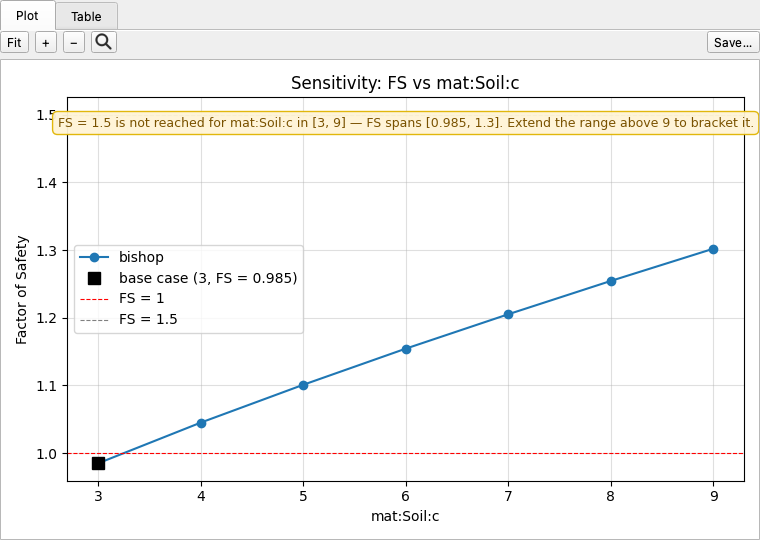
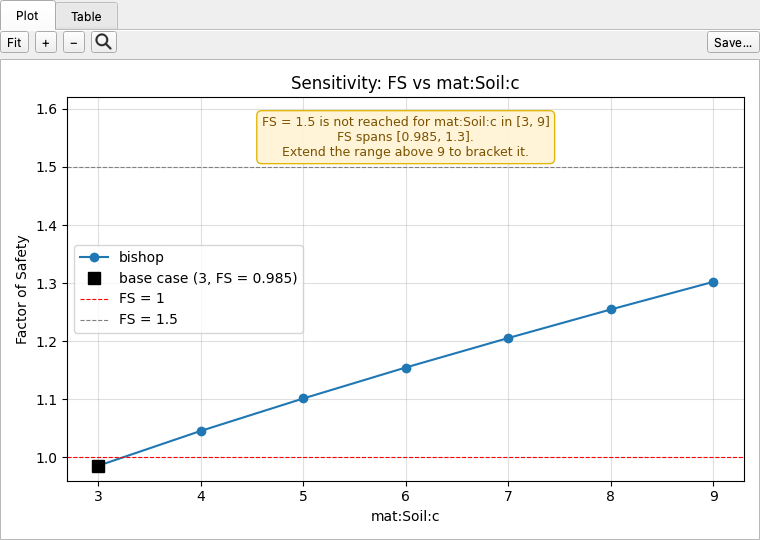
plots: a back-analysis lists FS = 1 once in its legend; a design sweep that misses its target puts its note beside the target line, wrapped to fit the plot (owner, 2026-10-12, ruling 191)
The FS = 1 guide and a target of FS = 1 were drawn as two lines with the same
label (plot_sensitivity and plot_spider). The miss note sat on the target line
and, wrapped to the figure rather than the axes, ran past the plot edges; it
now goes one clause per line on the far side of the target line, in y headroom
measured from the drawn box. Recaptured the two Parametric screenshots.

Claude-Session: https://claude.ai/code/session_01XjjT2aBxw8gY7EFdpoUcpj

diff --git a/xslope/plot.py b/xslope/plot.py
@@ -4883,7 +4883,9 @@ def plot_sensitivity(df, target_fs=None, figsize=(8, 5), save_png=False,
                           f"{output} = {base['fs'].iloc[0]:.3g})")
     if is_fs:                                    # FS = 1 guide only for a safety factor
         ax.axhline(1.0, color='r', linestyle='--', linewidth=0.8, label='FS = 1')
-    if target_fs is not None:
+    # A target of FS = 1 (a back-analysis) is the guide just drawn; a second line
+    # would only repeat it in the legend.
+    if target_fs is not None and not (is_fs and np.isclose(target_fs, 1.0)):
         ax.axhline(target_fs, color='gray', linestyle='--', linewidth=0.8,
                    label=f'{output} = {target_fs:g}')
     ax.set_xlabel(param)
@@ -4928,17 +4930,68 @@ def annotate_design_crossing(ax, target_fs, summary):
                     bbox=dict(boxstyle="round,pad=0.3", fc="white",
                               ec="#0a7d2c", alpha=0.9))
     else:
-        # Put the note in the empty band: just under the target line when the
-        # curve sits below the target (need a higher FS), else near the bottom.
+        # The note goes on the far side of the target line from the curve, in
+        # headroom the y-axis is extended to hold, so it covers neither the curve
+        # nor the line it is about. One clause per line, re-wrapped if still wider
+        # than the axes, keeps it inside the plot at any window width.
         fs_min = (summary.get("fs_range") or (None, None))[0]
         below_range = fs_min is not None and target_fs < fs_min
-        y, va = (0.05, "bottom") if below_range else (0.95, "top")
-        ax.text(0.5, y, summary.get("message", "Target FS not reached."),
-                transform=ax.transAxes, ha="center", va=va, fontsize=9,
-                color="#7a5200", wrap=True, zorder=9,
-                bbox=dict(boxstyle="round,pad=0.4", fc="#fff4d6",
-                          ec="#e0b400", alpha=0.95))
+        text = (summary.get("message", f"Target {out} not reached.")
+                .replace(" — ", "\n").replace(". ", ".\n"))
+        gap = 6                                  # points between line and note
+        note = ax.annotate(text, xy=(0.5, target_fs),
+                           xycoords=ax.get_yaxis_transform(),
+                           xytext=(0, -gap if below_range else gap),
+                           textcoords="offset points", ha="center",
+                           va="top" if below_range else "bottom", fontsize=9,
+                           color="#7a5200", zorder=9, annotation_clip=False,
+                           bbox=dict(boxstyle="round,pad=0.4", fc="#fff4d6",
+                                     ec="#e0b400", alpha=0.95))
+        _fit_note(ax, note, gap, below_range, target_fs)
     return ax
+
+
+def _fit_note(ax, note, gap, below, y_line):
+    """Wrap an annotation to the axes width, then extend the y-axis past ``y_line``
+    far enough to hold it, on the side the note sits (``below`` the line or above).
+
+    Both are measured on the drawn text, so the note fits at whatever size the
+    figure is drawn; with no renderer to measure against it is left as placed.
+    """
+    import textwrap
+    fig = ax.figure
+    try:
+        renderer = fig.canvas.get_renderer()
+    except AttributeError:
+        return
+
+    def box():
+        note.update_bbox_position_size(renderer)
+        return note.get_bbox_patch().get_window_extent(renderer)
+
+    clauses = note.get_text().split("\n")
+    chars = max(len(s) for s in clauses)
+    for _ in range(5):                           # each pass narrows the lines
+        width = box().width
+        if width <= ax.bbox.width or chars <= 10:
+            break
+        # Re-wrap the original clauses every pass, so a narrower width never
+        # strands the tail of an earlier wrap on a line of its own.
+        chars = max(10, min(chars - 1, int(chars * ax.bbox.width / width)))
+        note.set_text("\n".join(w for s in clauses
+                                for w in textwrap.wrap(s, chars)))
+
+    # The fraction of the axes height the note needs beyond the line: the box, its
+    # gap from the line, and the same gap again to the axes edge.
+    need = box().height + 2 * gap * fig.dpi / 72
+    frac = need / ax.bbox.height
+    if not 0 < frac < 0.9:
+        return
+    y0, y1 = ax.get_ylim()
+    if below:
+        ax.set_ylim(min(y0, (y_line - frac * y1) / (1 - frac)), y1)
+    else:
+        ax.set_ylim(y0, max(y1, (y_line - frac * y0) / (1 - frac)))
 
 
 #: The two faces of an embankment, in the colors an FS-versus-time curve marks its
@@ -5582,7 +5635,9 @@ def plot_spider(sweeps, x_mode='pct', figsize=(8, 5), save_png=False, dpi=300,
                     label=f'base case ({output} = {base_fs:.3g})')
     if output == 'FS':
         ax.axhline(1.0, color='r', linestyle='--', linewidth=0.8, label='FS = 1')
-    if target_fs is not None:
+    # A target of FS = 1 is the guide just drawn; a second line would only repeat
+    # it in the legend.
+    if target_fs is not None and not (output == 'FS' and np.isclose(target_fs, 1.0)):
         ax.axhline(target_fs, color='gray', linestyle='--', linewidth=0.8,
                    label=f'{output} = {target_fs:g}')
     ax.set_xlabel('Change from base case (%)' if x_mode == 'pct'
